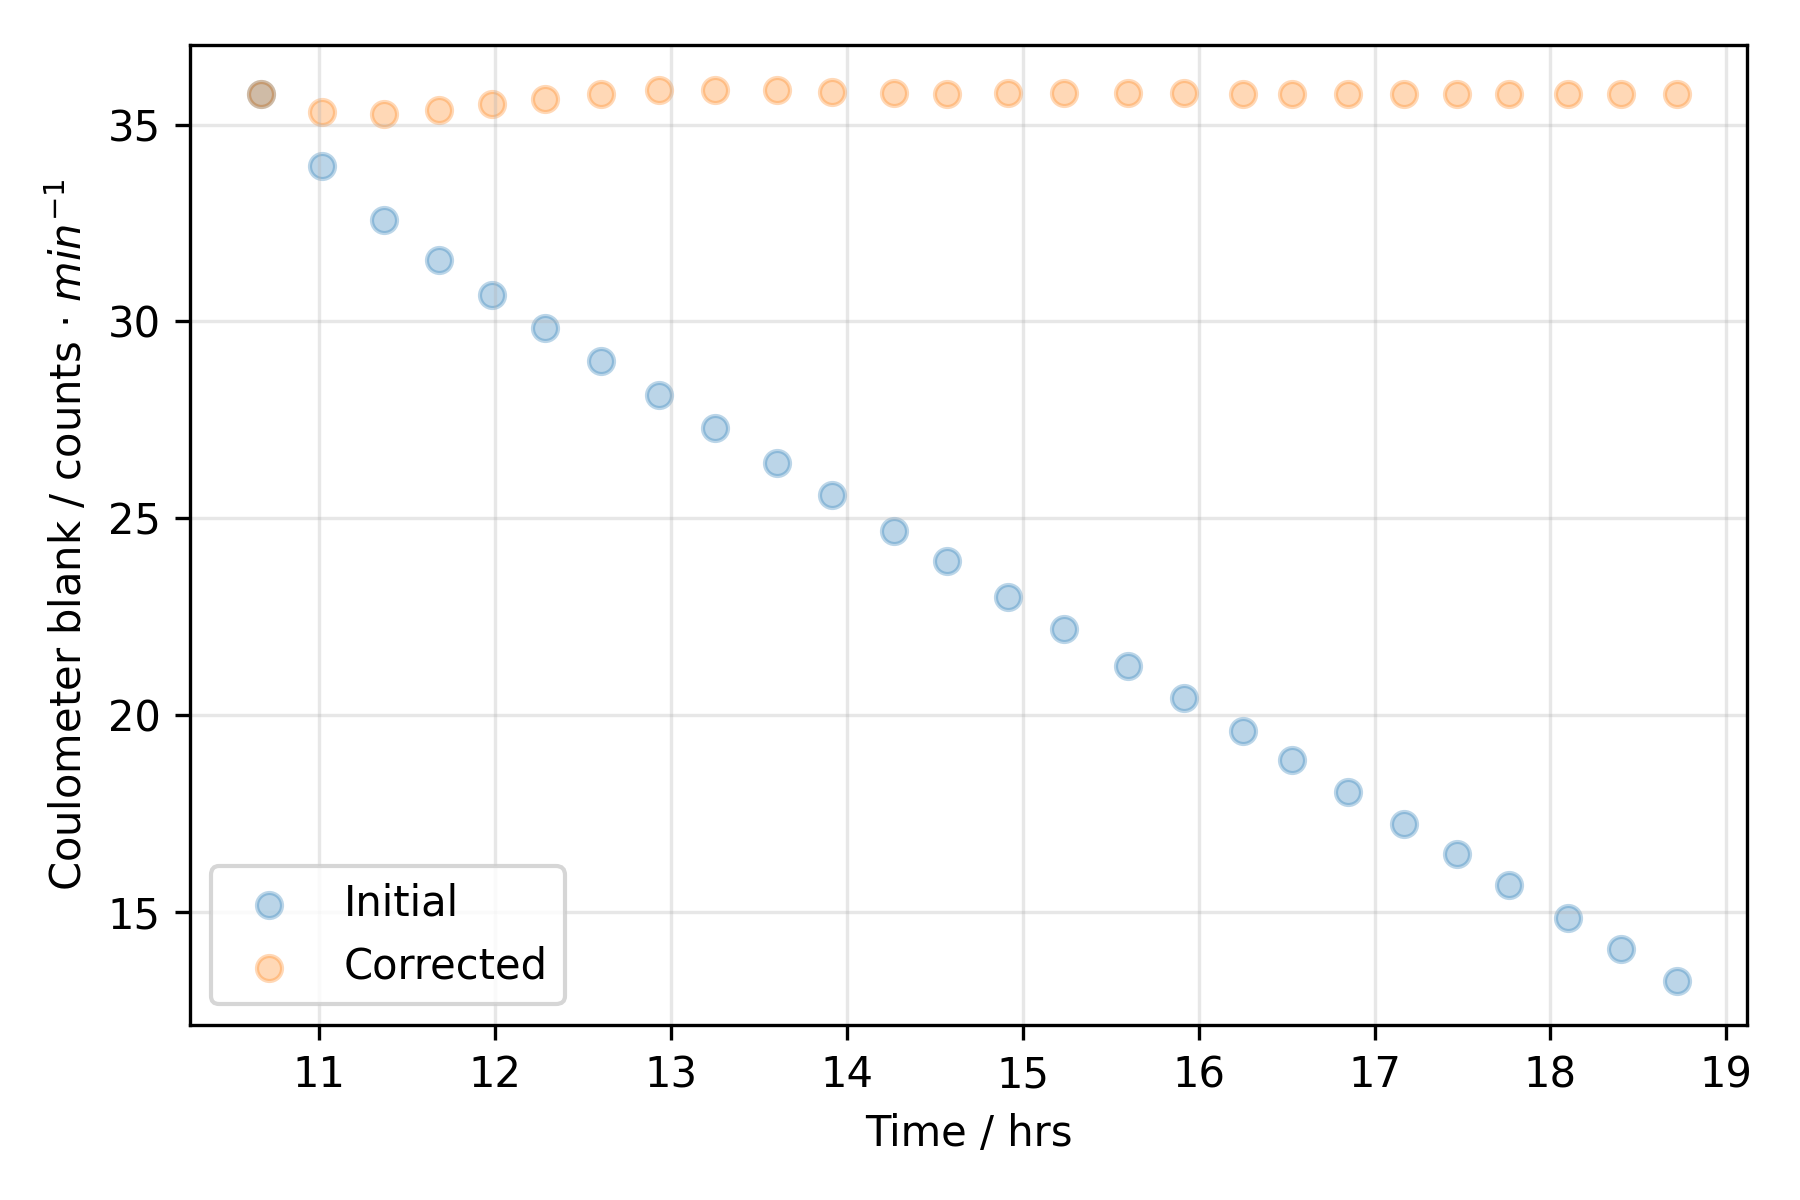
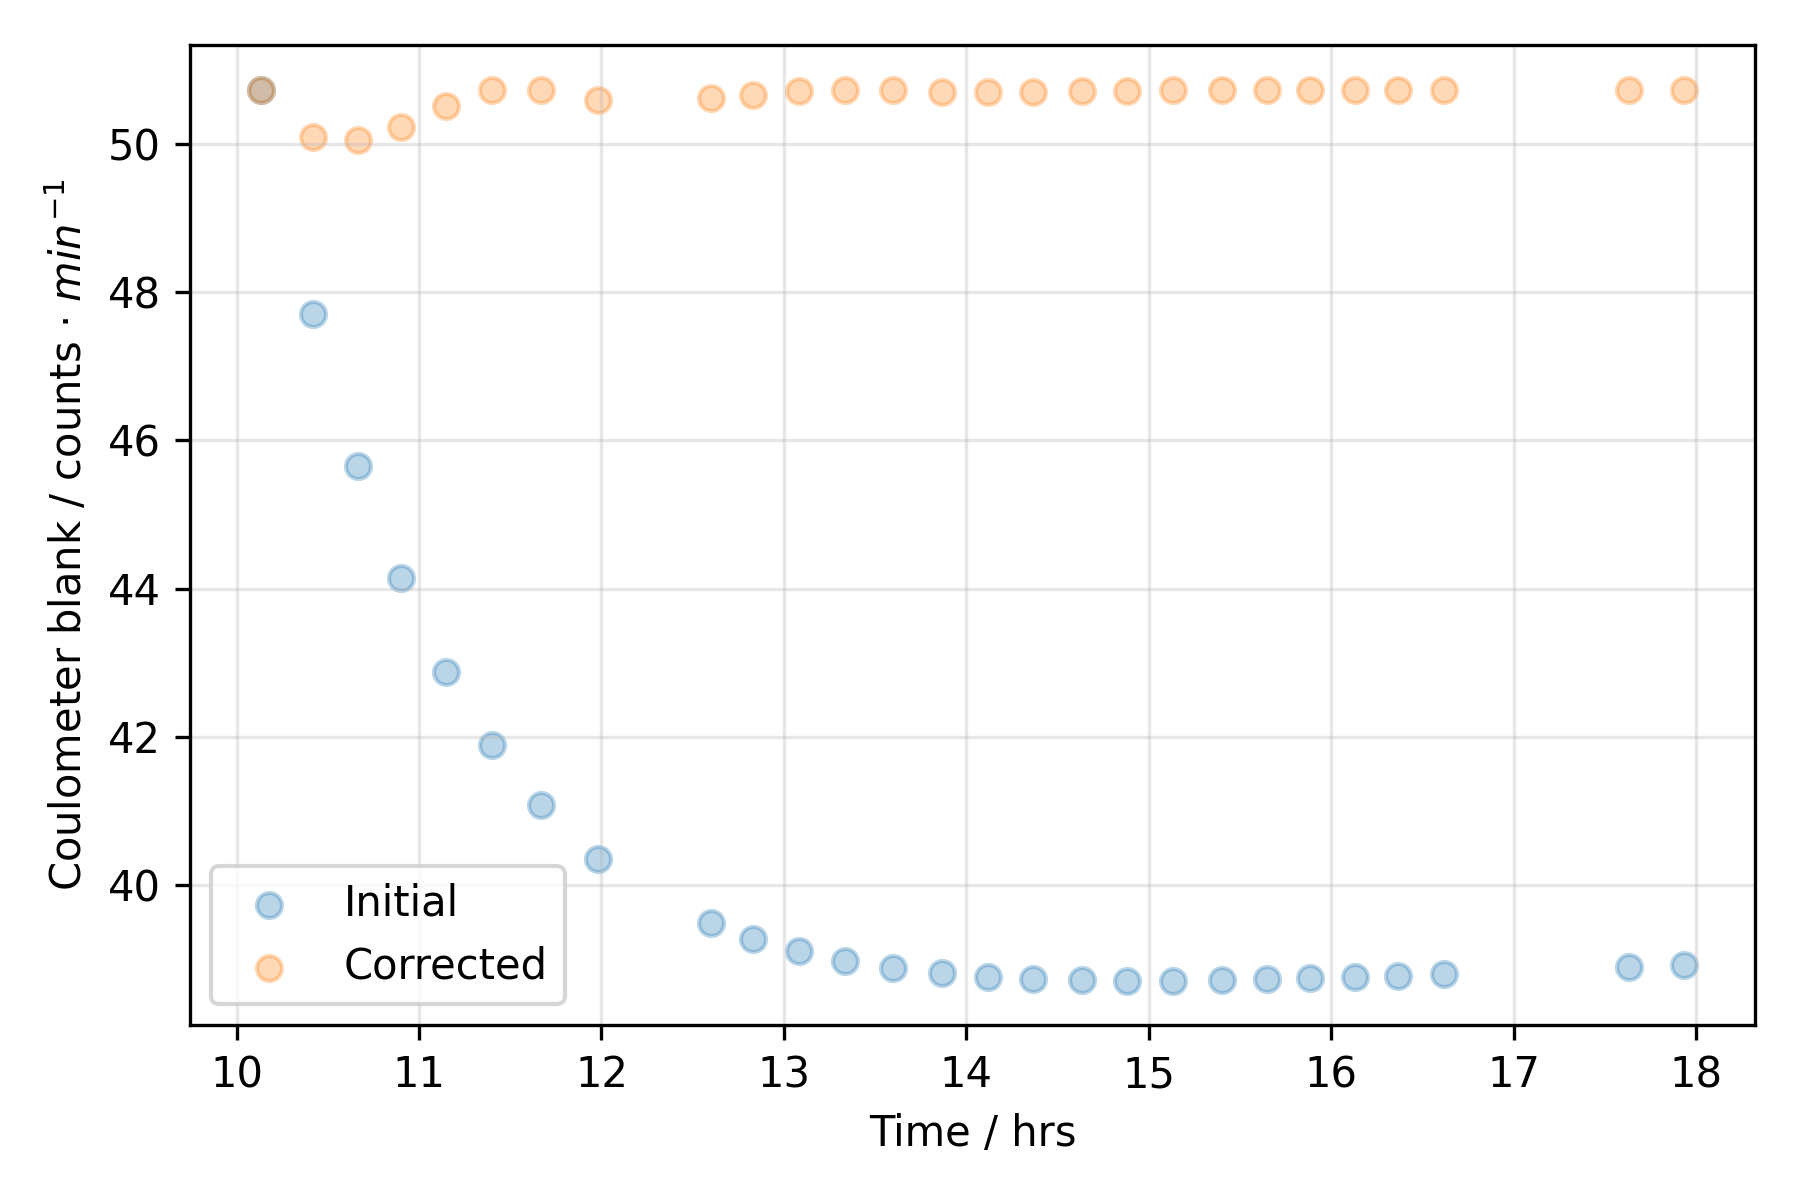
looked at specific blank correction

diff --git a/SO289-64PE503/correct_blank_drift_SO289_64PE503.py b/SO289-64PE503/correct_blank_drift_SO289_64PE503.py
@@ -6,8 +6,7 @@ import matplotlib.dates as mdates
 # Import dataframe
 df = pd.read_csv("data/SO289-64PE503_results.csv")
 
-# For now only keep Oct 31
-L = df["dic_cell_id"] == "C_Aug27-22_0908"
+L = df["dic_cell_id"] == "C_Oct28-22_0910"
 df = df[L]
 
 # Calculate nuts offset throughout the day
